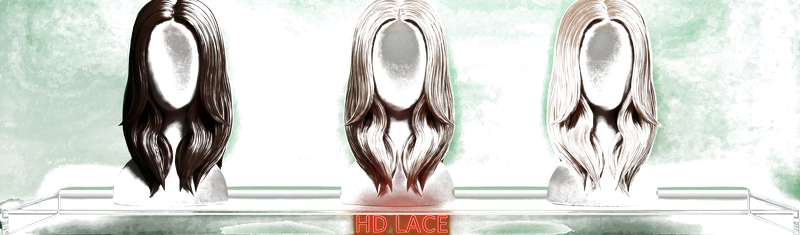
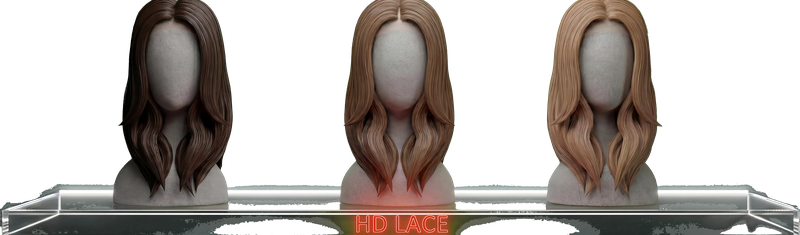
Regenerate lobby shelves: fix mannequin holes and green fringe
Improve green-screen key to protect gray mannequin busts, despill green
from shelf glass, and crop on solid alpha. Bump shelf cache version.

diff --git a/src/constants/lobbySceneAssets.ts b/src/constants/lobbySceneAssets.ts
@@ -25,7 +25,7 @@ export const LOBBY_ROSE_BACKGROUND_SRC_REMOTE =
 export const LOBBY_ROSE_BACKGROUND_SRC = `/assets/landing-background.png?v=${LOBBY_BACKGROUND_ASSET_VERSION}`;
 
 /** Bump when re-baking shelf PNGs (`npm run lobby:bake-shelves`). */
-export const LOBBY_SHELF_ASSET_VERSION = 'RQY7-2fkX-AKow';
+export const LOBBY_SHELF_ASSET_VERSION = 'RQY7-v2';
 
 export const LOBBY_SHELF_HD_SRC_REMOTE =
   'https://hyycomvcaqxxvyrfupes.supabase.co/storage/v1/object/public/live-preview/LP%20Images/RQY7MNHaS7mk5m9RKKMd__Qtm01P5p.jpeg';
